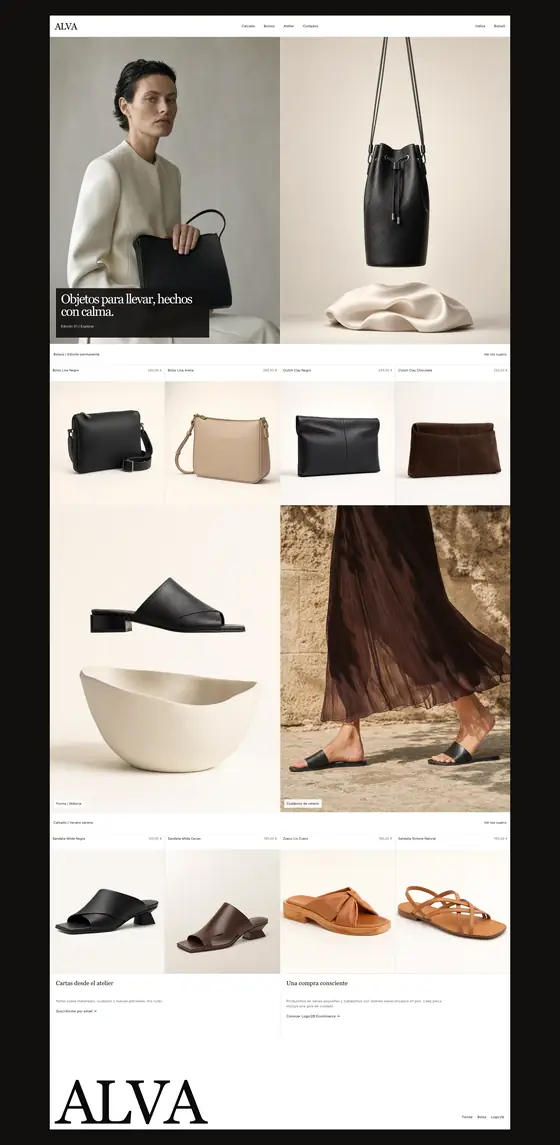
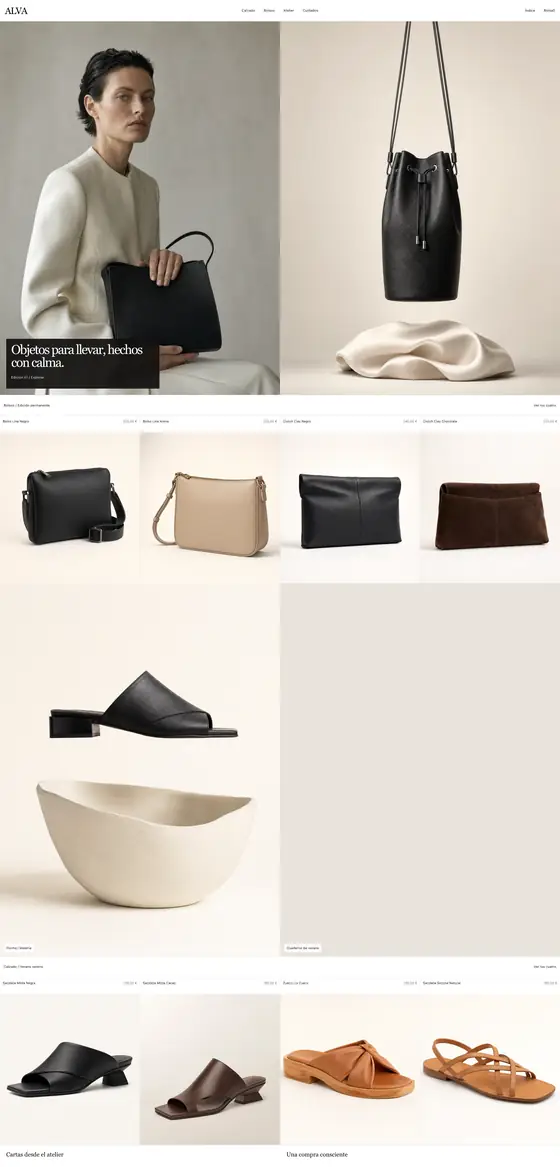
fix: make ALVA storefront full width

diff --git a/docs/temas/alva.md b/docs/temas/alva.md
@@ -5,9 +5,10 @@
 - **Colección:** `src/collections/alva.ts` — **ALVA**, marroquinería y calzado
   escandinavo de autor.
 - **Catálogo:** 8 productos · 4 bolsos + 4 sandalias · slugs `alv-*`.
-- **Dirección:** fondo exterior negro, lienzo marfil, cabecera tipográfica,
-  hero partido, retícula de cuatro columnas, díptico de atelier y wordmark de
-  gran escala en el pie.
+- **Dirección:** lienzo marfil a ancho completo, cabecera tipográfica, hero
+  partido, retícula de cuatro columnas, díptico de atelier y wordmark de gran
+  escala en el pie. El 2026-08-10 Andreu pidió retirar el marco estrecho negro
+  de la primera entrega y llevar la composición a todo el viewport.
 - **Imaginería:** 12 assets finales (4 campañas/editorial + 8 productos), WebP,
   1,0 MB total. La herramienta integrada de OpenAI falló por red antes de
   generar; se aplicó el fallback de Higgsfield ya autorizado para la cola.
@@ -42,6 +43,6 @@
 - ✅ Catálogo y ficha servidos en local; capturas a 1440 y 390×844.
 - ✅ Ficha, carrito vacío/activo y checkout bajo el recorrido compartido.
 - ✅ Reduced motion y auditoría propia: **0 errores · 0 avisos · 9 superficies**.
-- ✅ Capturas WebP dentro de presupuesto: catálogo 116 KB, móvil 35 KB,
+- ✅ Capturas WebP dentro de presupuesto: catálogo 88 KB, móvil 35 KB,
   miniaturas 28/74 KB y ficha 33 KB.
 - ✅ Contraste del copy sobre fotografía corregido con plancha sólida oscura.

diff --git a/docs/TEMAS.md b/docs/TEMAS.md
@@ -679,10 +679,10 @@ Ficha: [`docs/temas/orbe.md`](temas/orbe.md).
 
 **Para quién:** marroquinería, calzado de autor y accesorios premium.
 
-Hoja editorial estrecha sobre fondo oscuro, hero partido entre campaña y
-objeto, cuatro bolsos, díptico de atelier y cuatro sandalias sobre una retícula
-de filetes mínimos. Ocho productos y doce assets propios sostienen una dirección
-serena y táctil sin duplicar ninguna parte del recorrido comercial. Ficha:
+Lienzo editorial a ancho completo, hero partido entre campaña y objeto, cuatro
+bolsos, díptico de atelier y cuatro sandalias sobre una retícula de filetes
+mínimos. Ocho productos y doce assets propios sostienen una dirección serena y
+táctil sin duplicar ninguna parte del recorrido comercial. Ficha:
 [`docs/temas/alva.md`](temas/alva.md).
 
 ---

diff --git a/docs/ROADMAP.md b/docs/ROADMAP.md
@@ -810,8 +810,8 @@ remoto. Ficha completa en [`docs/temas/orbe.md`](temas/orbe.md).
 ### Línea paralela · tema ALVA (2026-08-10, sesión local)
 
 Octavo elemento de `nuevos-temas/cola.json`. ALVA replica una dirección de
-marroquinería escandinava con lienzo editorial estrecho, hero doble, cuatro
-bolsos, díptico de atelier y cuatro sandalias. La colección incorpora ocho
+marroquinería escandinava con lienzo editorial a ancho completo, hero doble,
+cuatro bolsos, díptico de atelier y cuatro sandalias. La colección incorpora ocho
 productos `alv-*` y doce assets WebP propios. La herramienta integrada de
 OpenAI falló por red; el fallback de Higgsfield previamente autorizado generó
 las piezas una a una y consumió 120,68 créditos.
